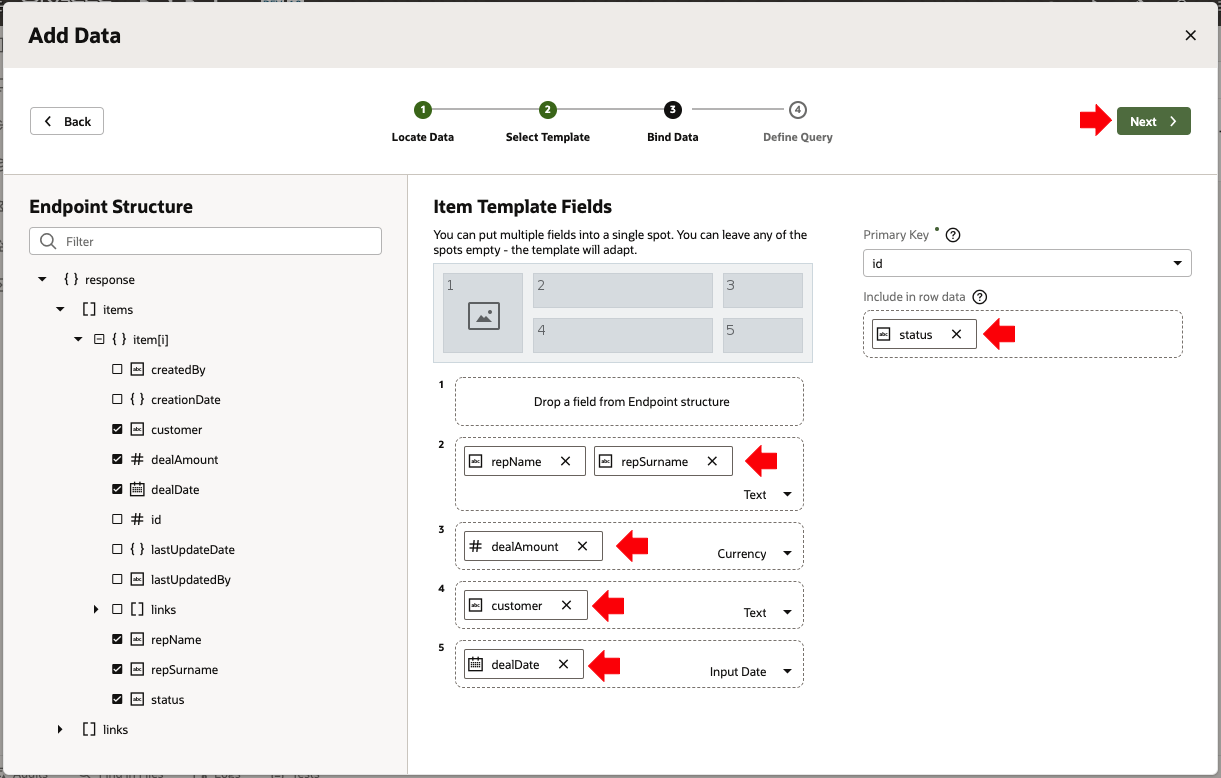
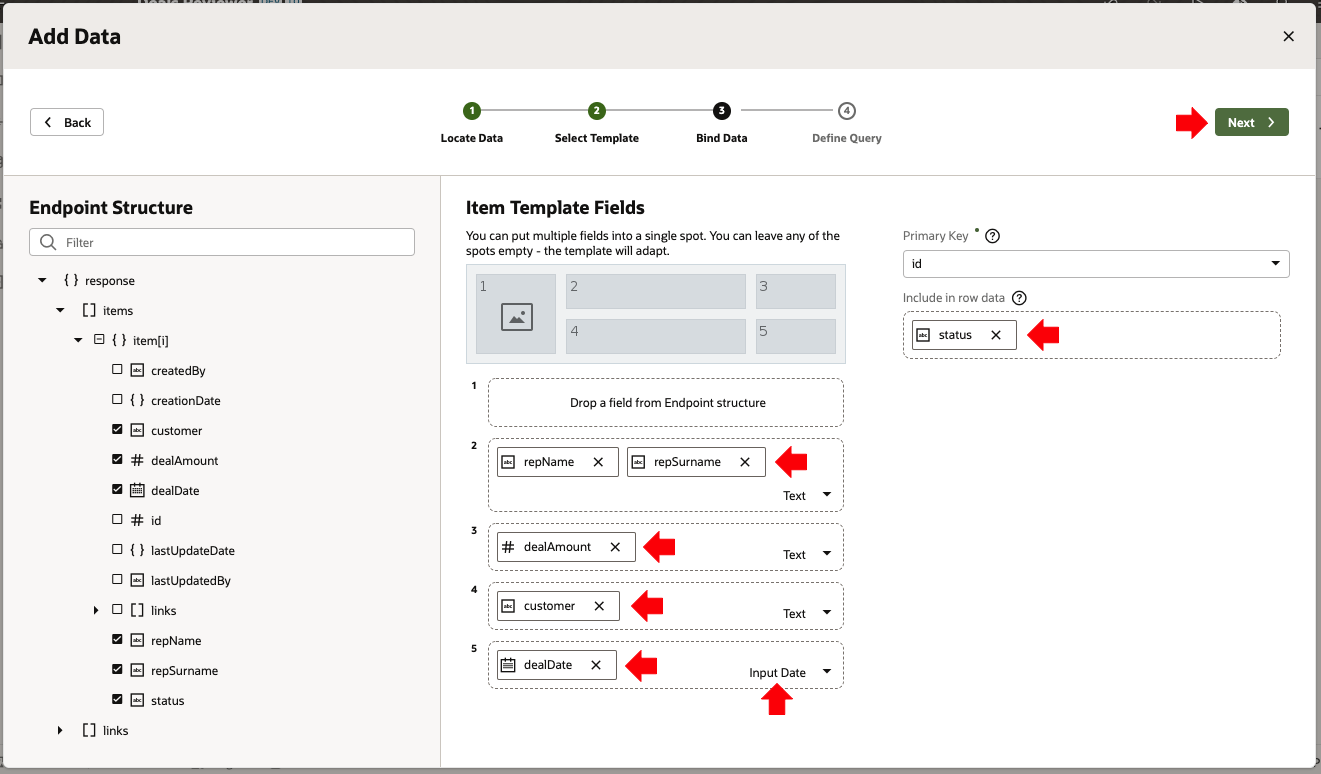
step8 fix

diff --git a/workshops/visualbuilder/basic.md b/workshops/visualbuilder/basic.md
@@ -524,7 +524,7 @@ You can now bind the different payload attributes from the RESTful call response
 
 1.  (leave it empty)
 2.  `repName` and `repSurname`
-3.  `dealAmount` (set its type as _Currency_)
+3.  `dealAmount`
 4.  `customer`
 5.  `dealDate` (set its type as _Input Date_)
 
@@ -596,9 +596,49 @@ Now, the list looks much better!
 
 ![](workshops/visualbuilder/media/100.png)
 
-### Hands On Lab - Step 8: Improve data visualization with your own CSS styles
+### Hands On Lab - Step 8: Improve data visualization with templates and your own CSS styles
 
-To demonstrate how we can use our own CSS styles in VBCS, let's highlight the deal's _Company name_ (`customer` field) using an own CSS class.
+You can see how the _deal amount_ number is not properly formatted as currency. We're going to change the existing format of the deal amount with an _Input Number_ component.
+
+Drag & drop an _Input Number_ component from the palette **inside** the `<> div@value1` element in the Structure View:
+
+![](workshops/visualbuilder/media/107.png)
+
+You can now remove the previous `Bind Text` component by right-clicking on it and clicking on _Delete_:
+
+![](workshops/visualbuilder/media/108.png)
+
+And now let's set the data binding and format for the new component. Click on the _Input Number_ element and in the _Data_ tab of its properties click on the _fx_ icon of the _Value_ field:
+
+![](workshops/visualbuilder/media/109.png)
+
+In the Expression Editor, drag & drop the `dealAmount` variable to the edit window and click _Save_ when done:
+
+![](workshops/visualbuilder/media/110.png)
+
+In the _General_ tab, set the following settings:
+
+-   _Readonly_: `checked`
+-   _Currency Display_: `$`
+-   _Currency Format_: `Short`
+-   _Maximum Fraction Digits_: `0`
+
+Now the deal amount will be displayed in a better way:
+
+![](workshops/visualbuilder/media/111.png)
+
+Let's going to provide a better format to the deal date, too. Click on the _Input Date_ element either in the Structure View or in the canvas:
+
+![](workshops/visualbuilder/media/112.png)
+
+In the _General_ tab, set the following settings:
+
+-   _Converter_: `Pattern`
+-   _Pattern_: dd-MMM-yyyy
+
+![](workshops/visualbuilder/media/113.png)
+
+Finally, to demonstrate how we can use our own CSS styles in VBCS, let's highlight the deal's _Company name_ (`customer` field) using an own CSS class.
 
 First, open the `app.css` file under the `Resources/css` folder:
 
@@ -636,6 +676,12 @@ If you are not yet a believer, open the source code of the page and see what you
 This is pure HTML5+CSS stuff in a LowCode way!
 
 ### Hands On Lab - Step 9: Add filter from external service
+
+If you remember, the business users would like to filter the list based on the status of the opportunity.
+
+First, we're not yet displaying the opportunity status in the list, so let's do so.
+
+
 
 ### Hands On Lab - Step 10: 
 
